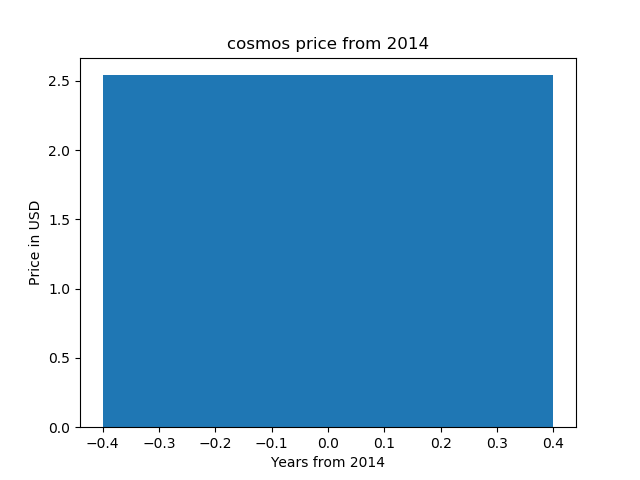
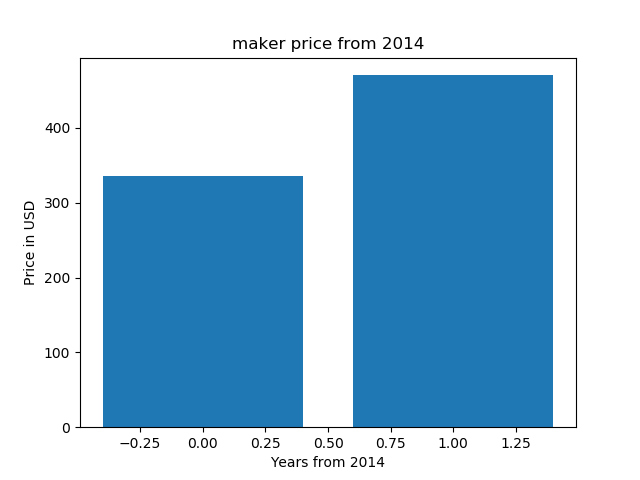
first commit

diff --git a/example.py b/example.py
@@ -10,7 +10,7 @@ from time import gmtime, strftime
 import matplotlib.pyplot as plt
 
 enddate = strftime("%Y%m%d", gmtime())
-r  = requests.get("https://coinmarketcap.com/currencies/cosmos/historical-data/?start=20140101&end={0}".format(enddate))
+r  = requests.get("https://coinmarketcap.com/currencies/maker/historical-data/?start=20140101&end={0}".format(enddate))
 data = r.text
 
 soup = BeautifulSoup(data, "html.parser")
@@ -44,7 +44,7 @@ print(x)
 
 x = list(range(0, len(prices)))
 
-plt.title('cosmos price from 2014')
+plt.title('maker price from 2014')
 plt.ylabel('Price in USD')
 plt.xlabel('Years from 2014')
 plt.bar(x, prices)

diff --git a/README.md b/README.md
@@ -1,6 +1,6 @@
-# cosmos price chart 
+# maker price chart 
 
-cosmos price chart (matplotlib, python)
+maker price chart (matplotlib, python)
 
 https://pythonprogramminglanguage.com
 
